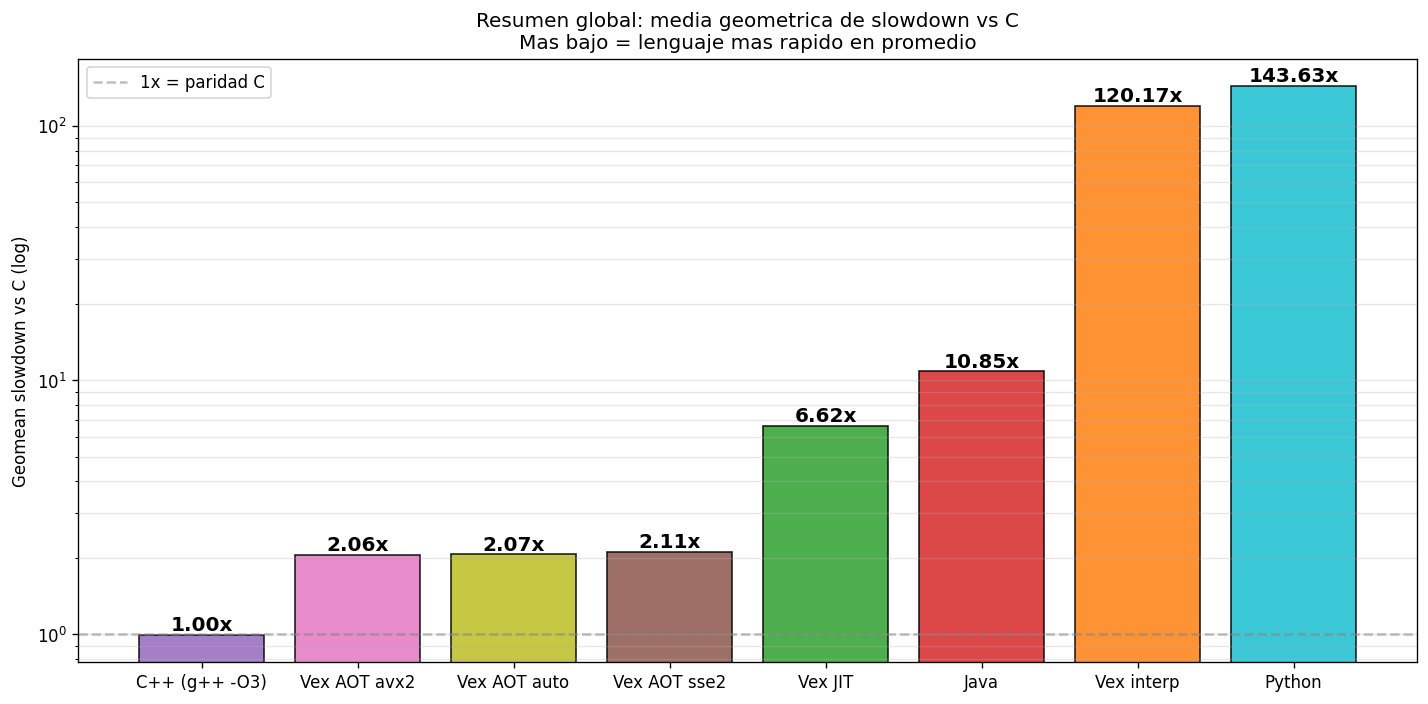
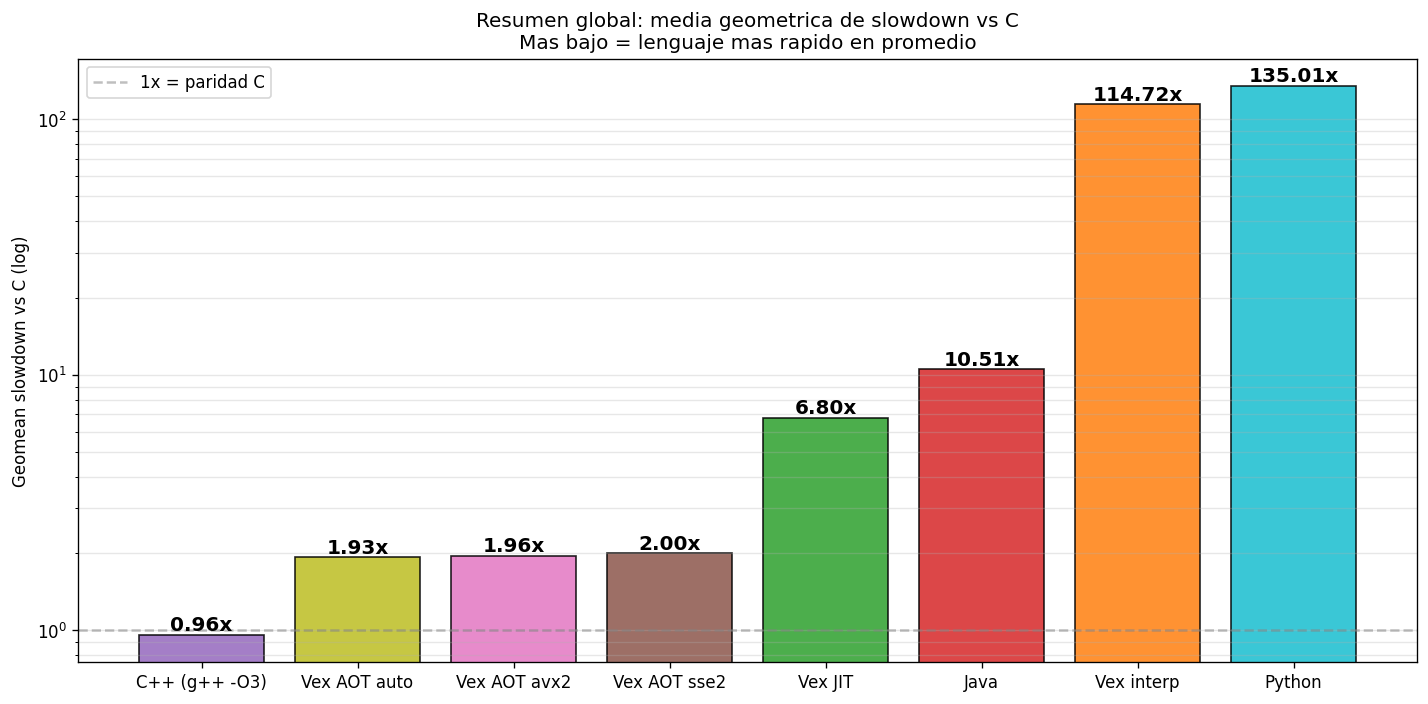
fix(gc): cerrar huecos de cobertura del scan preciso -- marcado sound sin conservador
BUG CRITICO de soundness (destapado por el moving, que no enmascara falsos negativos como
el no-moving): el scan preciso del interprete PERDIA raices vivas -> con GC no-moving era
un UAF latente (lectura stale-valida, el corpus no lo disparaba); con moving = corrupcion.
Dos causas:

1. OFFSET DEL STACKMAP DESALINEADO (todos los safepoints): el pc_offset se fijaba TRAS
   emitir la instruccion (inicio+size), pero el rip del interprete en el safepoint es el
   INICIO. El scan busca por igualdad exacta -> NUNCA hallaba el stackmap -> 0 raices
   marcadas en cada safepoint directo (alloc/gccollect). Ademas GC_COLLECT no estaba en
   is_gc_safepoint (ni emitia stackmap). Fix: registrar en instr_start_offset (capturado
   ANTES de emitir) en helpers_emmit_parser_to_bytecode.cpp; anñadir GC_COLLECT a
   gc_safepoint.h; emitir // @sm antes del opcode gccollect en ir_emitter.cpp.
2. RAIZ CLASS DE FUNCION LIBRE sin is_gc_object: un `call.ptr @fn` que retorna CLASS,
   vivo cross-safepoint, tenia is_gc_object=false -> excluido del root-set (el path
   CALLVIRT si lo marcaba, el de funcion libre no). Fix: lowering.cpp marca
   is_host_ptr=is_gc_object=true cuando callee_kind==CLASS.

Consecuencia: compact_old_gen YA NO fuerza el conservador -- usa el marcado PRECISO
primario (el conservador queda como fallback dev VESTA_GC_CONSERVATIVE=1). El flip
preciso-primario (d741231) queda SOUND de verdad.

Prueba de completitud (moving = detector infalible): 250 compact+preciso-puro -> moved=
[…]

diff --git a/bench_plots/index.html b/bench_plots/index.html
@@ -33,7 +33,7 @@
     </style>
 </head><body>
 <h1>VestaVM Benchmark Report</h1>
-<p class="meta">Generado 2026-06-27 03:36:55 &middot; JSON: <code>F:\C\VM\bench_results.json</code></p>
+<p class="meta">Generado 2026-07-03 04:51:22 &middot; JSON: <code>F:\C\VM\bench_results.json</code></p>
 <h2>Sistema</h2>
 <dl class="sysinfo">
 <dt>CPU</dt><dd>13th Gen Intel(R) Core(TM) i7-13700KF (16 fisicos / 24 logicos @ 3400 MHz)</dd>
@@ -43,7 +43,7 @@
 </dl>
 <h2>Toolchains</h2>
 <dl class="sysinfo">
-<dt>Vex VM</dt><dd>Vesta v0.1.0</dd>
+<dt>Vex VM</dt><dd>Vesta v1.0.0-alpha (build 2026-07-03 04:48:52, ac65e59+)</dd>
 <dt>C (gcc)</dt><dd>gcc.EXE (tdm64-1) 10.3.0</dd>
 <dt>C++ (g++)</dt><dd>g++.EXE (tdm64-1) 10.3.0</dd>
 <dt>Python</dt><dd>Python 3.11.0</dd>
@@ -54,51 +54,51 @@
 <table>
 <thead><tr><th>Benchmark</th><th>Vex interp</th><th>Vex JIT</th><th>Vex AOT sse2</th><th>Vex AOT avx2</th><th>Vex AOT auto</th><th>C (gcc -O3)</th><th>C++ (g++ -O3)</th><th>Python (CPython)</th><th>Java (HotSpot)</th></tr></thead>
 <tbody>
-<tr><td>alloc</td><td>150.9</td><td>35.7</td><td>4.6</td><td>4.9</td><td>4.6</td><td class="winner">3.2</td><td>3.5</td><td>618.0</td><td>72.9</td></tr>
-<tr><td>array_sum</td><td>1520.1</td><td>41.5</td><td>15.1</td><td>14.2</td><td>14.8</td><td class="winner">5.0</td><td>5.4</td><td>483.2</td><td>82.7</td></tr>
-<tr><td>bitops</td><td>3107.0</td><td>69.4</td><td>39.0</td><td>40.4</td><td>39.4</td><td class="winner">26.2</td><td>26.7</td><td>7382.2</td><td>95.0</td></tr>
-<tr><td>branch_unpredict</td><td>3885.7</td><td>171.9</td><td>145.1</td><td>142.5</td><td>143.2</td><td>19.0</td><td class="winner">18.7</td><td>3150.8</td><td>176.6</td></tr>
-<tr><td>callvirt</td><td>849.5</td><td>41.9</td><td>12.4</td><td>12.7</td><td>13.2</td><td class="winner">3.5</td><td>3.5</td><td>1868.4</td><td>74.6</td></tr>
-<tr><td>callvirt_hot</td><td>307.7</td><td>37.1</td><td>7.0</td><td>7.1</td><td>7.1</td><td>11.6</td><td class="winner">5.4</td><td>764.9</td><td>75.0</td></tr>
-<tr><td>cmp_fusion</td><td>696.0</td><td>44.8</td><td>17.0</td><td>17.6</td><td>17.0</td><td>3.4</td><td class="winner">3.0</td><td>1919.3</td><td>74.3</td></tr>
-<tr><td>fib_recursive</td><td>349.8</td><td>41.8</td><td>11.9</td><td>12.4</td><td>11.8</td><td>6.4</td><td class="winner">6.3</td><td>260.3</td><td>76.9</td></tr>
-<tr><td>fp_jit</td><td>785.8</td><td>97.3</td><td class="na">N/A</td><td class="na">N/A</td><td class="na">N/A</td><td class="winner">10.4</td><td>11.0</td><td>1386.7</td><td>91.4</td></tr>
-<tr><td>hash_lookup</td><td>4160.1</td><td>96.2</td><td>67.1</td><td>65.2</td><td>67.4</td><td class="winner">13.0</td><td>13.1</td><td>6750.4</td><td>126.2</td></tr>
-<tr><td>int_mixed</td><td>2679.9</td><td>52.0</td><td>23.7</td><td>22.9</td><td>22.6</td><td class="winner">19.6</td><td>19.9</td><td>11124.4</td><td>91.3</td></tr>
-<tr><td>intops_jit</td><td>1550.1</td><td>38.8</td><td>7.8</td><td>8.2</td><td>8.2</td><td>4.0</td><td class="winner">3.9</td><td>1137.5</td><td>78.1</td></tr>
-<tr><td>jit_method</td><td>435.5</td><td>40.4</td><td>11.6</td><td>12.0</td><td>11.1</td><td class="winner">4.1</td><td>4.2</td><td>1247.4</td><td>83.0</td></tr>
-<tr><td>mem_class</td><td>45.4</td><td>33.3</td><td>3.5</td><td>3.5</td><td>3.5</td><td class="winner">3.2</td><td>3.3</td><td>188.3</td><td>76.1</td></tr>
-<tr><td>mem_malloc_free</td><td>662.1</td><td>35.3</td><td>6.2</td><td>5.7</td><td>6.1</td><td class="winner">4.4</td><td>4.7</td><td>612.2</td><td>74.4</td></tr>
-<tr><td>mem_struct</td><td>521.8</td><td>34.8</td><td>5.9</td><td>5.0</td><td>5.5</td><td>3.1</td><td class="winner">3.0</td><td>442.8</td><td>77.3</td></tr>
-<tr><td>memcpy_loop</td><td>1790.7</td><td>33.6</td><td class="winner">5.9</td><td>6.5</td><td>6.0</td><td>6.6</td><td>5.9</td><td>3486.8</td><td>103.4</td></tr>
-<tr><td>nested_loops</td><td>2158.1</td><td>53.8</td><td>25.9</td><td>25.0</td><td>24.8</td><td class="winner">14.7</td><td>15.0</td><td>1654.4</td><td>85.4</td></tr>
-<tr><td>obj_accum</td><td>3694.2</td><td>70.8</td><td>43.5</td><td>43.9</td><td>42.7</td><td>30.4</td><td class="winner">30.2</td><td>4369.5</td><td>103.4</td></tr>
-<tr><td>pic_real</td><td>455.0</td><td>41.3</td><td>11.4</td><td>11.3</td><td>11.4</td><td class="winner">5.6</td><td>6.9</td><td>326.6</td><td>79.2</td></tr>
-<tr><td>polymorphic</td><td>774.5</td><td>60.3</td><td>30.7</td><td>28.9</td><td>30.7</td><td class="winner">8.9</td><td>10.0</td><td>1081.9</td><td>83.0</td></tr>
-<tr><td>quicksort</td><td>276.8</td><td>37.6</td><td>10.4</td><td>10.3</td><td>10.4</td><td class="winner">7.8</td><td>8.3</td><td>162.9</td><td>81.3</td></tr>
-<tr><td>rotops_jit</td><td>1011.7</td><td>34.7</td><td>6.5</td><td>5.7</td><td>6.3</td><td class="winner">4.0</td><td>4.7</td><td>1418.6</td><td>79.7</td></tr>
-<tr><td>state_machine</td><td>3027.1</td><td>68.3</td><td>41.2</td><td>40.5</td><td>39.4</td><td>20.2</td><td class="winner">19.9</td><td>1623.9</td><td>92.7</td></tr>
-<tr><td>string_hot</td><td>43.2</td><td>31.2</td><td>10.1</td><td>10.0</td><td>10.8</td><td>8.6</td><td class="winner">6.7</td><td>68.2</td><td>89.1</td></tr>
-<tr><td>string_workout</td><td>3625.0</td><td>663.2</td><td>73.4</td><td>75.9</td><td>75.7</td><td class="winner">31.1</td><td>40.5</td><td>543.9</td><td>185.9</td></tr>
-<tr><td>struct_field</td><td>1890.8</td><td>77.1</td><td>49.4</td><td>48.6</td><td>48.5</td><td class="winner">5.6</td><td>5.7</td><td>5274.5</td><td>82.5</td></tr>
-<tr><td>tight_loop</td><td>2086.6</td><td>51.2</td><td>21.1</td><td>22.3</td><td>22.1</td><td>13.2</td><td class="winner">13.2</td><td>1064.1</td><td>83.5</td></tr>
-<tr><td>vec_axpy</td><td>21314.2</td><td>77.1</td><td>84.3</td><td>50.3</td><td>49.7</td><td class="winner">18.5</td><td>18.7</td><td>6202.6</td><td>120.3</td></tr>
+<tr><td>alloc</td><td>156.5</td><td>32.6</td><td>4.4</td><td>4.7</td><td>4.3</td><td>3.9</td><td class="winner">3.3</td><td>609.5</td><td>79.0</td></tr>
+<tr><td>array_sum</td><td>1540.4</td><td>40.8</td><td>13.5</td><td>13.4</td><td>13.1</td><td class="winner">5.0</td><td>5.5</td><td>501.5</td><td>88.1</td></tr>
+<tr><td>bitops</td><td>3180.6</td><td>70.4</td><td>41.7</td><td>41.7</td><td>40.0</td><td>27.1</td><td class="winner">27.0</td><td>7418.9</td><td>101.6</td></tr>
+<tr><td>branch_unpredict</td><td>4029.7</td><td>165.8</td><td>137.7</td><td>138.3</td><td>135.8</td><td>19.0</td><td class="winner">18.1</td><td>3189.9</td><td>172.5</td></tr>
+<tr><td>callvirt</td><td>856.8</td><td>41.6</td><td>13.6</td><td>13.2</td><td>13.9</td><td>4.3</td><td class="winner">3.3</td><td>1883.2</td><td>80.2</td></tr>
+<tr><td>callvirt_hot</td><td>315.8</td><td>36.1</td><td>7.5</td><td>8.4</td><td>8.0</td><td>12.5</td><td class="winner">5.5</td><td>762.3</td><td>79.1</td></tr>
+<tr><td>cmp_fusion</td><td>713.4</td><td>47.8</td><td>16.9</td><td>20.2</td><td>18.4</td><td>3.7</td><td class="winner">3.4</td><td>1922.7</td><td>77.1</td></tr>
+<tr><td>fib_recursive</td><td>358.1</td><td>43.9</td><td>13.6</td><td>13.3</td><td>13.1</td><td>7.0</td><td class="winner">6.8</td><td>259.7</td><td>81.1</td></tr>
+<tr><td>fp_jit</td><td>791.1</td><td>794.8</td><td class="na">N/A</td><td class="na">N/A</td><td class="na">N/A</td><td class="winner">10.5</td><td>10.9</td><td>1383.7</td><td>96.1</td></tr>
+<tr><td>hash_lookup</td><td>4233.4</td><td>93.9</td><td>67.7</td><td>66.2</td><td>68.2</td><td class="winner">13.3</td><td>13.5</td><td>6927.9</td><td>139.9</td></tr>
+<tr><td>int_mixed</td><td>2790.1</td><td>53.4</td><td>23.7</td><td>22.8</td><td>23.8</td><td class="winner">20.8</td><td>21.1</td><td>11249.5</td><td>94.4</td></tr>
+<tr><td>intops_jit</td><td>1559.7</td><td>42.1</td><td>9.3</td><td>8.4</td><td>8.6</td><td class="winner">3.9</td><td>4.0</td><td>1157.0</td><td>85.4</td></tr>
+<tr><td>jit_method</td><td>439.2</td><td>40.2</td><td>13.8</td><td>12.0</td><td>11.4</td><td>5.2</td><td class="winner">4.4</td><td>1266.3</td><td>84.1</td></tr>
+<tr><td>mem_class</td><td>51.7</td><td>35.2</td><td>3.9</td><td>3.9</td><td>4.0</td><td class="winner">3.5</td><td>3.8</td><td>192.4</td><td>77.1</td></tr>
+<tr><td>mem_malloc_free</td><td>662.0</td><td>37.0</td><td>6.3</td><td>6.1</td><td>6.0</td><td class="winner">4.8</td><td>5.0</td><td>625.5</td><td>76.9</td></tr>
+<tr><td>mem_struct</td><td>529.9</td><td>36.8</td><td>6.3</td><td>5.7</td><td>5.3</td><td class="winner">3.5</td><td>4.3</td><td>461.0</td><td>80.1</td></tr>
+<tr><td>memcpy_loop</td><td>1803.7</td><td>36.5</td><td>6.4</td><td class="winner">6.4</td><td>6.5</td><td>7.3</td><td>7.1</td><td>3585.6</td><td>109.9</td></tr>
+<tr><td>nested_loops</td><td>2186.7</td><td>55.1</td><td>24.2</td><td>25.3</td><td>24.5</td><td>15.8</td><td class="winner">14.0</td><td>1656.4</td><td>88.9</td></tr>
+<tr><td>obj_accum</td><td>3826.4</td><td>74.0</td><td>44.9</td><td>45.0</td><td>43.9</td><td class="winner">29.1</td><td>31.5</td><td>4506.4</td><td>107.0</td></tr>
+<tr><td>pic_real</td><td>462.4</td><td>42.3</td><td>12.1</td><td>11.4</td><td>11.8</td><td class="winner">5.9</td><td>7.5</td><td>327.7</td><td>81.3</td></tr>
+<tr><td>polymorphic</td><td>780.8</td><td>62.4</td><td>30.7</td><td>29.6</td><td>29.5</td><td class="winner">9.2</td><td>9.9</td><td>1108.7</td><td>86.7</td></tr>
+<tr><td>quicksort</td><td>282.7</td><td>40.4</td><td>10.5</td><td>10.2</td><td>9.9</td><td class="winner">7.9</td><td>8.6</td><td>169.6</td><td>84.1</td></tr>
+<tr><td>rotops_jit</td><td>1041.5</td><td>38.3</td><td>5.5</td><td>5.9</td><td>5.7</td><td>4.9</td><td class="winner">4.5</td><td>1438.4</td><td>80.9</td></tr>
+<tr><td>state_machine</td><td>3160.0</td><td>73.3</td><td>39.4</td><td>42.3</td><td>38.8</td><td>21.4</td><td class="winner">20.1</td><td>1659.4</td><td>95.1</td></tr>
+<tr><td>string_hot</td><td>43.5</td><td>33.7</td><td>9.5</td><td>9.8</td><td>10.1</td><td>9.4</td><td class="winner">6.5</td><td>68.1</td><td>90.0</td></tr>
+<tr><td>string_workout</td><td>3890.7</td><td>703.6</td><td>80.8</td><td>78.3</td><td>79.2</td><td class="winner">30.3</td><td>40.7</td><td>557.9</td><td>200.6</td></tr>
+<tr><td>struct_field</td><td>1936.1</td><td>81.0</td><td>51.0</td><td>51.7</td><td>52.8</td><td>7.2</td><td class="winner">6.0</td><td>5288.1</td><td>85.1</td></tr>
+<tr><td>tight_loop</td><td>2129.7</td><td>49.2</td><td>19.6</td><td>20.2</td><td>20.1</td><td>13.6</td><td class="winner">13.5</td><td>1065.1</td><td>85.7</td></tr>
+<tr><td>vec_axpy</td><td>24258.4</td><td>82.4</td><td>87.9</td><td>52.1</td><td>48.3</td><td>19.2</td><td class="winner">18.7</td><td>6259.2</td><td>128.0</td></tr>
 </tbody></table>
 <h2>Geomean slowdown vs C por categoria</h2>
 <p class="meta">Verde &lt;1.5x &middot; Amarillo &lt;3x &middot; Rojo &ge;3x</p>
 <table>
 <thead><tr><th>Categoria</th><th>N</th><th>Vex interp</th><th>Vex JIT</th><th>Vex AOT sse2</th><th>Vex AOT avx2</th><th>Vex AOT auto</th><th>C++ (g++ -O3)</th><th>Python (CPython)</th><th>Java (HotSpot)</th></tr></thead>
 <tbody>
-<tr><td>alloc</td><td>4</td><td class="cat-bad">64.41x</td><td class="cat-bad">10.15x</td><td class="cat-good">1.44x</td><td class="cat-good">1.37x</td><td class="cat-good">1.41x</td><td class="cat-good">1.05x</td><td class="cat-bad">123.07x</td><td class="cat-bad">21.95x</td></tr>
-<tr><td>bit</td><td>2</td><td class="cat-bad">172.41x</td><td class="cat-bad">4.77x</td><td class="cat-mid">1.54x</td><td class="cat-good">1.47x</td><td class="cat-mid">1.53x</td><td class="cat-good">1.09x</td><td class="cat-bad">314.70x</td><td class="cat-bad">8.46x</td></tr>
-<tr><td>branch</td><td>3</td><td class="cat-bad">102.71x</td><td class="cat-bad">5.28x</td><td class="cat-mid">2.74x</td><td class="cat-mid">2.70x</td><td class="cat-mid">2.69x</td><td class="cat-good">1.01x</td><td class="cat-bad">65.22x</td><td class="cat-bad">7.63x</td></tr>
-<tr><td>fp</td><td>1</td><td class="cat-bad">75.78x</td><td class="cat-bad">9.38x</td><td class="na">N/A</td><td class="na">N/A</td><td class="na">N/A</td><td class="cat-good">1.06x</td><td class="cat-bad">133.73x</td><td class="cat-bad">8.81x</td></tr>
-<tr><td>hash</td><td>1</td><td class="cat-bad">318.91x</td><td class="cat-bad">7.38x</td><td class="cat-bad">5.14x</td><td class="cat-bad">5.00x</td><td class="cat-bad">5.16x</td><td class="cat-good">1.01x</td><td class="cat-bad">517.48x</td><td class="cat-bad">9.67x</td></tr>
-<tr><td>int</td><td>7</td><td class="cat-bad">147.06x</td><td class="cat-bad">6.10x</td><td class="cat-mid">2.10x</td><td class="cat-mid">2.14x</td><td class="cat-mid">2.08x</td><td class="cat-good">0.98x</td><td class="cat-bad">194.19x</td><td class="cat-bad">10.88x</td></tr>
-<tr><td>mem</td><td>2</td><td class="cat-bad">286.60x</td><td class="cat-bad">6.49x</td><td class="cat-mid">1.64x</td><td class="cat-mid">1.67x</td><td class="cat-mid">1.64x</td><td class="cat-good">0.98x</td><td class="cat-bad">225.49x</td><td class="cat-bad">16.06x</td></tr>
-<tr><td>misc</td><td>2</td><td class="cat-bad">374.47x</td><td class="cat-bad">3.12x</td><td class="cat-mid">2.56x</td><td class="cat-mid">1.98x</td><td class="cat-mid">1.94x</td><td class="cat-good">1.00x</td><td class="cat-bad">219.70x</td><td class="cat-bad">4.71x</td></tr>
-<tr><td>oop</td><td>5</td><td class="cat-bad">109.06x</td><td class="cat-bad">7.66x</td><td class="cat-mid">2.65x</td><td class="cat-mid">2.63x</td><td class="cat-mid">2.69x</td><td class="cat-good">0.92x</td><td class="cat-bad">188.18x</td><td class="cat-bad">12.19x</td></tr>
-<tr><td>string</td><td>2</td><td class="cat-bad">24.13x</td><td class="cat-bad">8.78x</td><td class="cat-mid">1.66x</td><td class="cat-mid">1.68x</td><td class="cat-mid">1.74x</td><td class="cat-good">1.00x</td><td class="cat-bad">11.75x</td><td class="cat-bad">7.85x</td></tr>
+<tr><td>alloc</td><td>4</td><td class="cat-bad">59.72x</td><td class="cat-bad">9.15x</td><td class="cat-good">1.32x</td><td class="cat-good">1.30x</td><td class="cat-good">1.25x</td><td class="cat-good">1.04x</td><td class="cat-bad">110.94x</td><td class="cat-bad">20.25x</td></tr>
+<tr><td>bit</td><td>2</td><td class="cat-bad">157.93x</td><td class="cat-bad">4.50x</td><td class="cat-good">1.32x</td><td class="cat-good">1.36x</td><td class="cat-good">1.31x</td><td class="cat-good">0.96x</td><td class="cat-bad">283.46x</td><td class="cat-bad">7.87x</td></tr>
+<tr><td>branch</td><td>3</td><td class="cat-bad">103.65x</td><td class="cat-bad">5.34x</td><td class="cat-mid">2.60x</td><td class="cat-mid">2.64x</td><td class="cat-mid">2.53x</td><td class="cat-good">0.99x</td><td class="cat-bad">65.25x</td><td class="cat-bad">7.53x</td></tr>
+<tr><td>fp</td><td>1</td><td class="cat-bad">75.43x</td><td class="cat-bad">75.78x</td><td class="na">N/A</td><td class="na">N/A</td><td class="na">N/A</td><td class="cat-good">1.04x</td><td class="cat-bad">131.94x</td><td class="cat-bad">9.16x</td></tr>
+<tr><td>hash</td><td>1</td><td class="cat-bad">317.33x</td><td class="cat-bad">7.04x</td><td class="cat-bad">5.07x</td><td class="cat-bad">4.96x</td><td class="cat-bad">5.11x</td><td class="cat-good">1.01x</td><td class="cat-bad">519.30x</td><td class="cat-bad">10.49x</td></tr>
+<tr><td>int</td><td>7</td><td class="cat-bad">137.70x</td><td class="cat-bad">5.77x</td><td class="cat-mid">2.02x</td><td class="cat-mid">2.01x</td><td class="cat-mid">1.97x</td><td class="cat-good">0.95x</td><td class="cat-bad">179.46x</td><td class="cat-bad">10.42x</td></tr>
+<tr><td>mem</td><td>2</td><td class="cat-bad">276.63x</td><td class="cat-bad">6.40x</td><td class="cat-mid">1.54x</td><td class="cat-mid">1.53x</td><td class="cat-mid">1.54x</td><td class="cat-good">1.04x</td><td class="cat-bad">222.55x</td><td class="cat-bad">16.33x</td></tr>
+<tr><td>misc</td><td>2</td><td class="cat-bad">407.38x</td><td class="cat-bad">3.30x</td><td class="cat-mid">2.66x</td><td class="cat-mid">2.05x</td><td class="cat-mid">1.95x</td><td class="cat-good">1.03x</td><td class="cat-bad">224.57x</td><td class="cat-bad">4.95x</td></tr>
+<tr><td>oop</td><td>5</td><td class="cat-bad">97.90x</td><td class="cat-bad">6.87x</td><td class="cat-mid">2.47x</td><td class="cat-mid">2.47x</td><td class="cat-mid">2.50x</td><td class="cat-good">0.83x</td><td class="cat-bad">167.31x</td><td class="cat-bad">11.26x</td></tr>
+<tr><td>string</td><td>2</td><td class="cat-bad">24.33x</td><td class="cat-bad">9.10x</td><td class="cat-mid">1.64x</td><td class="cat-mid">1.64x</td><td class="cat-mid">1.68x</td><td class="cat-good">0.96x</td><td class="cat-bad">11.52x</td><td class="cat-bad">7.94x</td></tr>
 </tbody></table>
 <h2>Graficas</h2>
 <div class="grid-plots">

diff --git a/src/emmit/helpers_emmit_parser_to_bytecode.cpp b/src/emmit/helpers_emmit_parser_to_bytecode.cpp
@@ -223,9 +223,20 @@ search_variante_None:
 void Assembler::emit_instruction(const vm::Instruction *instr) {
     const auto &info = select_variant(instr->opcode, instr->operands);
 
+    // Offset de INICIO de esta instruccion (antes de emitir ningun byte).  El
+    // stackmap preciso que porta esta instruccion se registra EN este offset:
+    // es donde estara el rip del interprete cuando el GC corra en su PC.  Vale
+    // para AMBOS tipos de safepoint (misma semantica):
+    //   - Directo (newobj/gcalloc/gccollect/...): el marcador `// @sm` va SOBRE
+    //     el opcode del safepoint; su rip == este offset.
+    //   - Return-site (tras callvm/callvirt): el marcador `// @sm` va sobre la
+    //     PRIMERA instruccion posterior al call; el ret_addr que el call empuja
+    //     == este offset (el frame walk lee [rbp+8] = este offset).
+    const uint32_t instr_start_offset = static_cast<uint32_t>(output.offset);
+
     // Stackmap preciso pendiente de publicar: se rellena con los slots del
-    // marcador `// @sm` y su byte_offset se fija al RETURN_PC (tras emitir la
-    // instruccion de call) al final de esta funcion.
+    // marcador `// @sm` y su byte_offset se fija al INICIO de la instruccion
+    // portadora (@c instr_start_offset), al final de esta funcion.
     std::optional<Context::StackmapRec> pending_stackmap;
 
     // Si la instruccion tiene linea fuente Vex registrada por el
@@ -318,14 +329,19 @@ void Assembler::emit_instruction(const vm::Instruction *instr) {
         }
     }
 
-    // Fijar el offset del stackmap pendiente al RETURN_PC (byte siguiente al
-    // call, ya emitido) y publicarlo.  El marcador `// @sm` que produjo el
-    // emisor va ligado (por el lexer) a la instruccion de CALL, pero la raiz
-    // debe registrarse en el offset del byte SIGUIENTE = el ret_addr que
-    // callvm/callvirt empujan y con el que el scan del interprete busca el
-    // stackmap del frame caller.
+    // Fijar el offset del stackmap pendiente al INICIO de ESTA instruccion (la
+    // que porta el marcador `// @sm`) y publicarlo.  El lexer liga el marcador a
+    // la instruccion INMEDIATAMENTE SIGUIENTE al comentario; en ambos tipos de
+    // safepoint esa instruccion es exactamente donde apuntara el rip del scan:
+    //   - Directo: el marcador va sobre el opcode del safepoint -> rip == inicio.
+    //   - Return-site: el marcador va sobre la primera instruccion tras el call
+    //     -> el ret_addr empujado == inicio de esa instruccion (= este offset).
+    // El bug anterior fijaba el offset TRAS emitir la instruccion (inicio+size),
+    // por lo que el scan (que busca por igualdad EXACTA con rip == inicio) nunca
+    // hallaba el stackmap -> raices vivas sin marcar (UAF latente enmascarado
+    // por el GC no-moving; corrupcion con el GC moving).
     if (pending_stackmap) {
-        pending_stackmap->byte_offset = static_cast<uint32_t>(output.offset);
+        pending_stackmap->byte_offset = instr_start_offset;
         ctx.stackmap_recs.push_back(std::move(*pending_stackmap));
         pending_stackmap.reset();
     }

diff --git a/src/gc/gc_heap.cpp b/src/gc/gc_heap.cpp
@@ -1822,21 +1822,25 @@ void GcHeap::major_gc() {
         }
     }
 #if !defined(VESTA_GC_FREESTANDING)
-    // SOUNDNESS DEL MOVING: si la compactacion esta activada por OPT-IN, forzamos
-    // el scan CONSERVADOR (aditivo) para garantizar un MARK sin FALSOS NEGATIVOS
-    // (ninguna raiz viva queda WHITE).  El scan preciso por si solo tiene huecos
-    // de cobertura de stackmaps que, con el GC NO-MOVING, son benignos (se lee
-    // "stale pero valido"), pero con MOVING corromperian (el objeto vivo mal
-    // marcado se movería/reusaría).  Verificado: con el conservador, la
-    // compactacion mueve todos los objetos vivos con 0 punteros stale.
-    static const bool compaction_opt_in =
-        (std::getenv("VESTA_GC_COMPACT_ALWAYS") &&
-         std::getenv("VESTA_GC_COMPACT_ALWAYS")[0] == '1') ||
-        std::getenv("VESTA_GC_COMPACT_THRESHOLD") != nullptr;
-    if (compaction_opt_in && root_provider_ != nullptr &&
-        root_provider_->vm_mem() != nullptr) {
-        run_conservative = true;
-    }
+    // SOUNDNESS DEL MOVING con marcado PRECISO.  El scan preciso del interprete
+    // es ahora COMPLETO: cada raiz GC viva (regs + slots de spill + slots de
+    // Vex ALLOCA materializados como spill del SSA value) queda cubierta por el
+    // stackmap del PC del safepoint.  Cerrados los dos huecos que lo rompian:
+    //   (1) el offset del stackmap se registraba TRAS la instruccion (rip+size)
+    //       en vez de en su INICIO -> el scan (match exacto con rip) nunca lo
+    //       hallaba (ver helpers_emmit_parser_to_bytecode.cpp);
+    //   (2) el resultado de un CALL a funcion libre que devuelve CLASS no se
+    //       marcaba is_gc_object -> la raiz (p.ej. `Node k = build(...)`) no
+    //       entraba en safepoint_gc_roots (ver lowering.cpp lower_call).
+    // Verificado con el GC MOVING (detector infalible: un falso negativo libera
+    // Y reusa el hueco -> corrupcion): corpus GC + repros de listas 30-40k con
+    // huecos reales -> 0 stale de raiz viva, R0 correcto, movimientos reales.
+    // Por eso la compactacion YA NO fuerza el conservador: usa el marcado
+    // preciso primario.  El conservador queda como fallback de dev via
+    // VESTA_GC_CONSERVATIVE=1 (aditivo) por si un patron aun no cubierto
+    // (p.ej. una raiz GC en una ALLOCA address-taken invisible al SSA) lo
+    // necesitara -- se activa explicitamente, no por la compactacion.
+    (void)0;
 #endif
 
     uint64_t mj_rsp = 0, mj_high = 0;

diff --git a/src/vex/lowering.cpp b/src/vex/lowering.cpp
@@ -15690,6 +15690,18 @@ skip_comptime_eval_for_macro_to_macro:
     ins.operands = std::move(arg_ids);
     ins.source_line = e->loc.line;
     fn_->append(current_block_, std::move(ins));
+    // Marcar el resultado del CALL como raiz GC cuando el callee devuelve una
+    // CLASS (host_ptr a objeto gestionado por el GC).  CRITICO para el scan
+    // preciso de raices: sin esto, un `Node keep = build(...)` que vive a
+    // traves de un safepoint (p.ej. gc_collect / newobj) queda con
+    // is_gc_object=false en su SSA value -> safepoint_gc_roots no lo reconoce
+    // como raiz -> el GC lo colecta pese a estar vivo (UAF latente enmascarado
+    // por el GC no-moving; corrupcion con el GC moving).  Mismo tratamiento que
+    // el path CALLVIRT (metodos) que ya marcaba is_gc_object para retorno CLASS.
+    if (dst != ir::IR_NO_VALUE && callee_kind == PrimitiveKind::CLASS) {
+        fn_->values[dst].is_host_ptr = true;
+        fn_->values[dst].is_gc_object = true;
+    }
     // native_poo_: liberar los buffers de los args value-string temporales
     // (ya copiados/usados por el callee).  Inc 5 (SSO): solo libera si el
     // arg estaba en HEAP; free(0)=no-op.

diff --git a/include/ir/gc_safepoint.h b/include/ir/gc_safepoint.h
@@ -46,7 +46,10 @@ namespace ir {
  *        puede disparar el recolector de basura (alocacion directa).
  *
  * Cubre las alocaciones directas que llaman a @c gc_heap.alloc():
- * NEWOBJ / NEWOBJS / GC_ALLOC / GC_ALLOCP.  Los CALLs (cuyo callee puede
+ * NEWOBJ / NEWOBJS / GC_ALLOC / GC_ALLOCP, y las FUERZAS EXPLICITAS del
+ * recolector: GC_COLLECT (gccollect ejecuta minor_gc + major_gc in-situ) --
+ * en su PC el mark corre con las raices del programa vivas en regs/slots, asi
+ * que necesita stackmap igual que una alocacion.  Los CALLs (cuyo callee puede
  * alocar) son safepoints tambien, pero alli el GC corre en el frame del
  * callee y el frame del caller se identifica por la direccion de retorno
  * (manejo distinto por backend); no se incluyen en esta version del pase.
@@ -57,6 +60,7 @@ inline bool is_gc_safepoint(IrOp op) {
     case IrOp::NEWOBJS:
     case IrOp::GC_ALLOC:
     case IrOp::GC_ALLOCP:
+    case IrOp::GC_COLLECT:
         return true;
     default:
         return false;

diff --git a/src/ir/ir_emitter.cpp b/src/ir/ir_emitter.cpp
@@ -4436,6 +4436,12 @@ static void emit_instr(EmitCtx &ctx, const IrBlock &bb, size_t idx,
 
     // --- gccollect: fuerza minor+major GC del proceso + drena finalizadores ---
     case IrOp::GC_COLLECT:
+        // gccollect ejecuta minor_gc + major_gc in-situ: es un SAFEPOINT.  El
+        // mark corre con las raices del programa vivas en regs/slots del frame
+        // TOP -> emitir el stackmap ANTES del opcode (mismo modelo que newobj/
+        // gcalloc).  Sin esto, el scan preciso no encuentra raices en el PC de
+        // gccollect y colecta objetos vivos (con el GC moving: corrupcion).
+        emit_stackmap_marker(ctx, bb, idx);
         ctx.out << "    gccollect\n";
         break;
 
